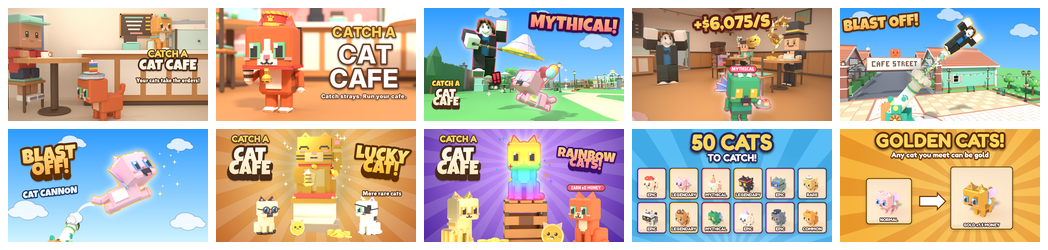
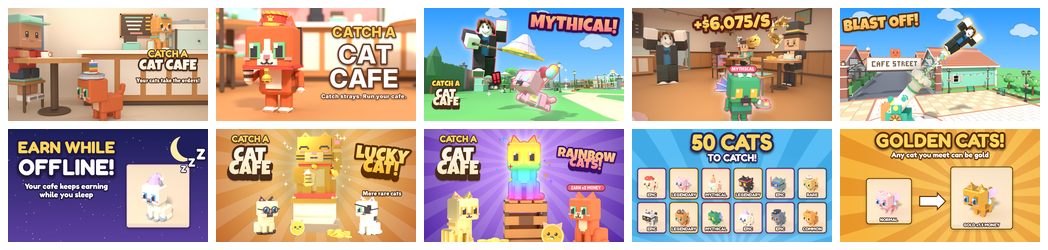
Ads: swap the second cannon picture for Earn While Offline (#2422)
Claude-Session: https://claude.ai/code/session_01DW2uoy8twpm71brKt1HK2p

Changed region(s): [[0.0, 0.504, 0.2137, 0.98]]

diff --git a/docs/growth/store-art/2026-11-08-ads/compose_new_ads.py b/docs/growth/store-art/2026-11-08-ads/compose_new_ads.py
@@ -70,3 +70,26 @@ def golden2(out, name='Blossom'):
     # arrow
     d.polygon([(760,640),(930,640),(930,600),(1020,690),(930,780),(930,740),(760,740)],fill=(255,255,255),outline=(90,45,10),width=10)
     im.convert('RGB').save(out,optimize=True)
+
+def offline(out, name='Ragdoll_Sit'):
+    import random
+    W,H=1920,1080
+    ys=np.linspace(0,1,H)[:,None,None]
+    top=np.array((28,30,88),float); bot=np.array((92,64,160),float)
+    bg=(top*(1-ys)+bot*ys)*np.ones((1,W,1))
+    im=Image.fromarray(bg.astype(np.uint8)).convert('RGBA')
+    d=ImageDraw.Draw(im); rnd=random.Random(7)
+    for _ in range(140):
+        x,y=rnd.randrange(W),rnd.randrange(H); r=rnd.choice([1,2,2,3])
+        d.ellipse((x-r,y-r,x+r,y+r),fill=(255,250,220,rnd.randrange(120,255)))
+    # moon
+    d.ellipse((1560,70,1800,310),fill=(255,236,170)); d.ellipse((1620,40,1860,280),fill=tuple(int(v) for v in bg[60,1700]))
+    im,_=text(im,'EARN WHILE',560,120,112,YELLOW,outline=(30,24,70),stroke=16)
+    im,_=text(im,'OFFLINE!',560,290,150,(255,255,255),outline=(30,24,70),stroke=20)
+    im,_=text(im,'Your cafe keeps earning',560,520,52,(255,255,255),outline=(30,24,70),stroke=8)
+    im,_=text(im,'while you sleep',560,600,52,(255,255,255),outline=(30,24,70),stroke=8)
+    c=card(name,None,620,620,border=(140,120,230))
+    im=shadowed(im,c,(1130,330))
+    for i,(x,y,s) in enumerate([(1660,350,60),(1730,280,80),(1810,190,100)]):
+        im,_=text(im,'Z',x,y,s,(255,255,255),outline=(30,24,70),stroke=max(6,s//9),anchor_x='l')
+    im.convert('RGB').save(out,optimize=True)

diff --git a/docs/growth/store-art/2026-11-08-ads/README.md b/docs/growth/store-art/2026-11-08-ads/README.md
@@ -9,7 +9,7 @@ These are the 10 pictures for the first Ads Manager campaign in `docs/growth/ad-
 | `Ad_03_MythicalCatch.png` | Catch moment | Set 3 N v2, unchanged | The Balloon Cat is Mythical in Catalog, and the player swings the net |
 | `Ad_04_TopEarner.png` | Income | Set 3 L v2, unchanged | Mythical 75/s x Sewer 81 = 6,075/s (Catalog `AREA_INCOME`) |
 | `Ad_05_PlayerCannon.png` | Cannon, player hero | Set 3 O v2, unchanged | F84 Cat Cannon flight |
-| `Ad_06_CatCannon.png` | Cannon, cat hero (A/B test against 05) | Set 3 M, unchanged | F84 |
+| `Ad_06_EarnOffline.png` | Earn while offline (Derek2, 2026-11-08: "can also use earn offline for ads") | New: night sky with the Sleepy Cat (Ragdoll) in its nightcap | `Config.OfflineRate = 0.5` for up to 8 hours, free for everyone (the pass raises it, but the picture doesn't mention the pass) |
 | `Ad_07_LuckyCat.png` | Rare cats | Set 2 I, with CATCH A added | The Lucky Cat statue adds luck (`Config.LuckPerStatueLevel`) |
 | `Ad_08_RainbowCats.png` | Rainbow cats | Set 2 F, with CATCH A added and the pill changed from x3 to **x2** | `Config.RainbowMultiplier = 2` (Derek2, 2026-11-07) |
 | `Ad_09_FiftyCats.png` | Collection | New: 12 cat cards from the preview renders, with rarity borders in the game's rarity colours | 50 catchable cats in Catalog; each card's rarity matches Catalog |
@@ -17,8 +17,8 @@ These are the 10 pictures for the first Ads Manager campaign in `docs/growth/ad-
 
 Left out:
 
-- Set 3 K ("1 IN 200"): the rainbow odds are now 1.5% (`RainbowChanceNet = 0.015`), so that figure is wrong.
-- Set 2 H: it repeats the cannon hook.
+- Set 3 K ("1 IN 200"): a rainbow cat is now 1 in 67 (`RainbowChanceNet = 0.015`), so 200 overstates how rare it is. A rainbow Mythical really is about 1 in 5,500 per stray (1.2% Mythical in every area's odds x 1.5% rainbow). "1 IN 5,000+" would be a true and stronger hook, but it needs a new render of a rainbow Mythical.
+- Set 2 H and set 3 M: they repeat the cannon hook (M was in the first cut, and Derek2's offline idea replaced it).
 - J and N v1: they repeat the catch hook.
 
 The plan also listed "friends" and "cozy night" scenes. They need new Blender renders, which this session could not make, so they are a follow-up.

diff --git a/docs/growth/ad-campaign-plan-2026-11-08.md b/docs/growth/ad-campaign-plan-2026-11-08.md
@@ -27,7 +27,7 @@ The finished pictures are in `store-art/2026-11-08-ads/`, and its README has the
 | 3 | Catch moment (Mythical) | `Ad_03_MythicalCatch.png` |
 | 4 | Income (+$6,075/s) | `Ad_04_TopEarner.png` |
 | 5 | Cannon, player hero | `Ad_05_PlayerCannon.png` |
-| 6 | Cannon, cat hero (A/B with 5) | `Ad_06_CatCannon.png` |
+| 6 | Earn while offline (Derek2, 2026-11-08) | `Ad_06_EarnOffline.png` |
 | 7 | Lucky Cat, more rare cats | `Ad_07_LuckyCat.png` |
 | 8 | Rainbow cats, x2 money | `Ad_08_RainbowCats.png` |
 | 9 | Collection: 50 cats to catch | `Ad_09_FiftyCats.png` |
